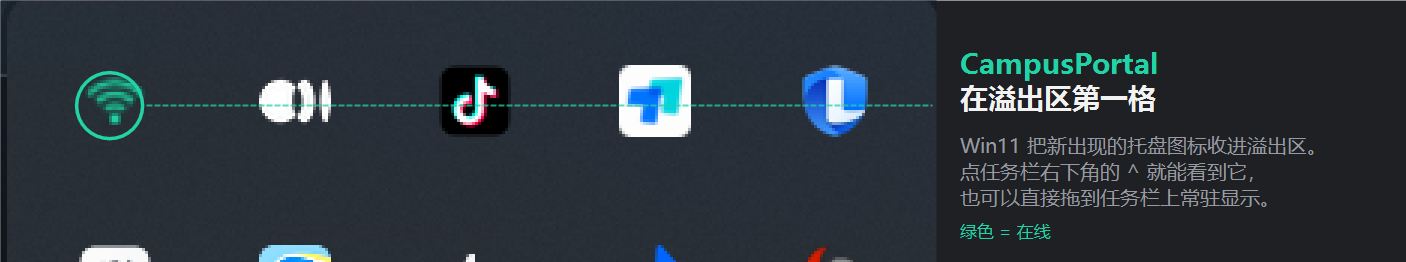
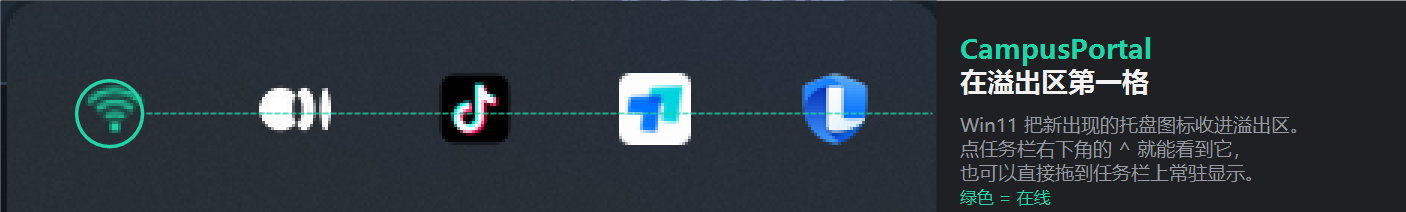
docs: 菜单截图改深色卡片，溢出区图只留一行图标，去掉重复引用
tray-menu.png 从纯白底 1126x598 改成缩到 0.58 倍后合成到深色画布 765x439，避免在 GitHub 深色主题下像一块白板。
tray-overflow.png 从 1406x262 裁成 1406x212，只保留溢出面板第一行图标，不再露出下缘残留图标。
README 的「这是什么」一节删掉与「右键菜单」节重复的菜单图引用，改成锚点链接。

diff --git a/README.md b/README.md
@@ -31,9 +31,7 @@
 
 ![托盘三态](assets/tray-states.png)
 
-右键点它能看到上次检查时间，也能点「立即连接」当场登录一次：
-
-![托盘右键菜单](assets/tray-menu.png)
+右键点它还能看上次检查时间、点「立即连接」当场登录一次，详见下面的[右键菜单](#右键菜单)。
 
 > 实测：手动点「立即连接」后 **3 秒**完成登录并恢复联网；
 > 自动守护按 `interval_sec`（默认 1800 秒）轮询，掉线最迟一个轮询周期内被发现。
